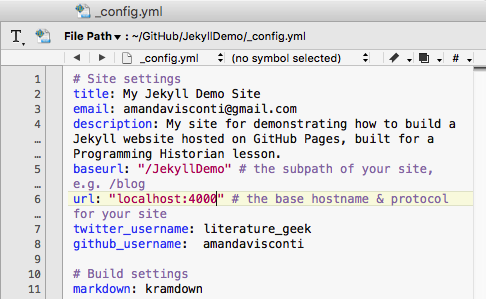
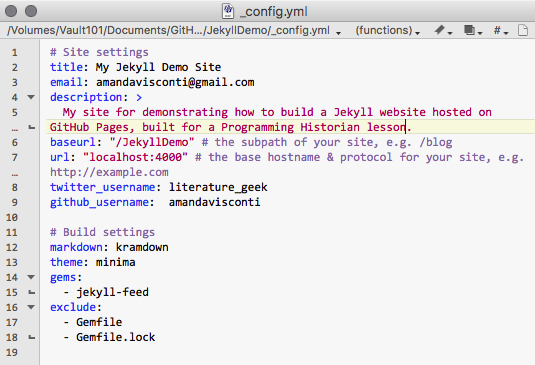
Rewrote Jekyll lesson to fix #278
Fixes lesson breakage reported and ID’d by Kristen Mapes, from mid-Fall
2016 Jekyll changes that replaced themes with gem themes.

Changed region(s): [[0.0, 0.0, 1.0, 0.9933]]

diff --git a/lessons/building-static-sites-with-jekyll-github-pages.md b/lessons/building-static-sites-with-jekyll-github-pages.md
@@ -19,6 +19,8 @@ difficulty: 1
 
 **Difficulty level:** Intermediate (this lesson includes use of the command line and git, *but* walks you through anything needed to complete this lesson). Forthcoming lessons in the basics of git/GitHub and GitHub Pages will be linked here when available, and provide a good background for anyone wishing for deeper understanding of the technology used in this lesson.
 
+**Up to date?:** This lesson was last updated on *November 12, 2016* to fix issues caused by Jekyll version 3.2.
+
 ## Table of contents
 * [What are static sites, Jekyll, etc. and why might I care?](#section0)
 * [Preparing for installation](#section1)
@@ -165,7 +167,7 @@ You'll see something like the following text, followed by a popup:
 
 {% include figure.html filename="building-static-sites-with-jekyll-github-pages-1.png" caption="After entering the code at the command prompt, you'll see a message stating 'install requested for command line developer tools'" %}
 
-In the popup, click the "Install" button:
+In the popup, click the "Install" button (*not* the "Get Xcode" button, which will install code you don't need that may take hours to download):
 
 {% include figure.html filename="building-static-sites-with-jekyll-github-pages-2.png" caption="A popup appears with an install button" %}
 
@@ -261,63 +263,34 @@ Don't forget to wait until the command prompt appears again to type the followin
 
    The *cd* command (**c**hange **d**irectory) tells your computer to look at the place in the computer's folder system you specify by the path typed after it—in this case, the path to the GitHub folder created by installing the GitHub Desktop app.
 
-3. Your site's public URL will take the form http://amandavisconti.github.io/JekyllDemo/, with *amandavisconti* being the author's GitHub username and *JekyllDemo* the name of the site I entered at this step (*an option to purchase and use your own [custom URL](#section7-2) is possible, but not covered in this lesson*). **Lowercase and uppercase website names do *not* point to the same website automatically**, so unlike my *JekyllDemo* example you might wish to pick an all-lowercase name to make sure people who hear about the site tend to type its URL correctly.
+3. At the command line, type in the following and press enter:
+
+    `gem install jekyll bundler`
+    
+Don't forget to wait until the command prompt appears again to move to the next step.
+
+4. Your site's public URL will take the form http://amandavisconti.github.io/JekyllDemo/, with *amandavisconti* being the author's GitHub username and *JekyllDemo* the name of the site I entered at this step (*an option to purchase and use your own [custom URL](#section7-2) is possible, but not covered in this lesson*). **Lowercase and uppercase website names do *not* point to the same website automatically**, so unlike my *JekyllDemo* example you might wish to pick an all-lowercase name to make sure people who hear about the site tend to type its URL correctly.
 
    At the command line, type in the following (but replace *JekyllDemo* with whatever you want your site to be called):
 
    `jekyll new JekyllDemo`
 
-   This command told *jekyll* to create a *new* site by installing all the necessary files in a folder named *JekyllDemo*. **The folder you create at this step (e.g. *JekyllDemo*) will be referred to as the "website folder" for the rest of this tutorial.**
+   This command told *jekyll* to create a *new* site by installing all the necessary files in a folder named *JekyllDemo*. **The folder you create at this step (e.g. *JekyllDemo*) will be referred to as the "website folder" for the rest of this tutorial.** 
 
-4. At the command line, type in the following to navigate into your site folder (through the rest of this lesson, always replace *JekyllDemo* with whatever name you chose for your site in the previous step):
+5. At the command line, type in the following to navigate into your site folder (through the rest of this lesson, always replace *JekyllDemo* with whatever name you chose for your site in the previous step):
 
    `cd JekyllDemo` 
-
-{% include figure.html filename="building-static-sites-with-jekyll-github-pages-8.png" caption="On the author's computer, the command line after navigating to the Jekyll website folder" %}
 
    If you look in the *GitHub > JekyllDemo* folder in Finder, you'll see that a bunch of new files—the files that will run your website!—have been installed (we'll describe what each does [further on in the lesson](#section4-2)):
 
 {% include figure.html filename="building-static-sites-with-jekyll-github-pages-9.png" caption="In Finder, we can see that bunch of new files—the files that will run your website!—have been installed" %}
-
-5. Bundler is a Ruby "Gem" (a package of Ruby code that adds some specific feature to your site) that will make testing your site easier; it needs to be installed directly into the website folder we just created (e.g. *JekyllDemo*), which is why we didn't install it earlier in this lesson. At the command line, enter:
-
-   `gem install bundler` 
-
-   Don't forget to wait until the command prompt appears again to type the following command:
-
-   `bundle init`
-
-   A new file named "Gemfile" will appear in your website folder. The [Gemfile](http://tosbourn.com/what-is-the-gemfile/) helps your site keep track of all the dependencies it requires to run without breaking (dependencies are pieces of code that software *depends* on or requires, if you don't want errors to occur).
-
-6. Navigate to your website folder in Finder (Macs) or your directory folder (Windows), and open the "Gemfile" file; you'll want to open this and any future website files using your [text editor](#section1-3) (e.g. TextWrangler). To force a file to open with your text editor, right-click on the file, then chose "Open with" and select the text editor program (you may need to choose "Other…" to find the text editor if it isn't in the list that appears).
-
-{% include figure.html filename="building-static-sites-with-jekyll-github-pages-12.png" caption="Entering the two lines of code in Step 7 on separate lines and with the same lower-case formatting" %}
-
-   You can also drag and drop a text file onto the icon for your text editor program (e.g. on the Dock/menubar).
-
-7. Add the two following lines of text, on separate lines and with the same lower-case formatting (as shown in the screenshot below), then **save**:
-
-   ```
-   gem 'jekyll'
-   gem 'github-pages'
-   ```
-
-{% include figure.html filename="building-static-sites-with-jekyll-github-pages-13.png" caption="" %}
-
-8. At the command line, type
-
-   `bundle install`
-
-   This will install the *jekyll* and *github-pages* gems you just listed in the Gemfile. (Don't forget to let the entire process finish and the prompt reappear before typing any more commands! This process will take a few minutes, as a number of dependencies are being installed.) 
-
-   You won't need to mess with the Gemfile again, since we'll be hosting your website on GitHub Pages and GitHub Pages does not allow additional site dependencies or plugins (code that adds specific features, like social media buttons after every post; [more on plugins below](#section7-2).)
 
 ## Running a website locally <a id="section3a"></a>
 *This section will describe how to run your website* ***locally****—meaning you'll be able to see what your website will look like in a web browser just on your computer (aka locally), but not anywhere else. Working on a "local" version of a website means that it's private to your computer; no one else can see your website yet (your website isn't "live" or "public": no one can type in the URL and see it in their browser).*
 
 *This means you can experiment all you want, and only publish your site for the world to see when it's ready. Or, once you've made your site live, you can continue to experiment locally with new writing, design, etc. and only add these to the public site once you're happy with how they look on the local site.*
 
-1. At the command line, type  
+1. At the command line, type:  
 
     `bundle exec jekyll serve --watch`
 
@@ -355,28 +328,30 @@ Don't forget to wait until the command prompt appears again to type the followin
 
 ### Basic site settings via _config.yml <a id="section4-1"></a>
 
-1. Navigate to your website folder in Finder (Macs) or the directory folder (Windows. The author's website at */Users/DrJekyll/GitHub/JekyllDemo* (*DrJekyll* is my logged in username, and *JekyllDemo* is the name of my website folder). [Return to the "Setting up Jekyll" section](#section3) if you need help locating your website folder.
+1. Navigate to your website folder in Finder (Macs) or the directory folder (Windows. The author's website at */Users/DrJekyll/GitHub/JekyllDemo* (*DrJekyll* is my logged in username, and *JekyllDemo* is the name of my website folder). [Return to the "Setting up Jekyll" section](#section3) if you need help locating your website folder. 
+
+You'll notice that generating and running your site in the previous section added a new "_site" folder. This is where Jekyll puts the HTML files it generates from the other files in your website folder. Jekyll works by taking various files like your site configuration settings (_config.yml) and files that just contain post or page content without other webpage information (e.g. about.md), putting these all together, and spitting out HTML pages that a web browser is able to read and display to site visitors.
 
 {% include figure.html filename="building-static-sites-with-jekyll-github-pages-18.png" caption="Locating the website folder on the author's computer" %}
 
-2. We'll start by customizing the main settings file, **_config.yml**. You'll want to open this and any future website files using your text editor (e.g. TextWrangler on Macs or Notepad++ on Windows).
+2. We'll start by customizing the main settings file, **_config.yml**. You'll want to open this and any future website files using your text editor (e.g. TextWrangler or bbEdit on Macs, or Notepad++ on Windows).
 
-{% include figure.html filename="building-static-sites-with-jekyll-github-pages-14.png" caption="Opening the text editor program TextWrangler on the author's Mac" %}
+{% include figure.html filename="building-static-sites-with-jekyll-github-pages-14.png" caption="Opening the text editor program bbEdit on the author's Mac" %}
 {% include figure.html filename="building-static-sites-with-jekyll-github-pages-15.png" caption="The new _config.yml file" %}
 
    The *_config.yml* file is a file "meant for settings that affect your whole blog, values for which your are expected to set up once and rarely need to edit after that" (as it says inside the file!). *_config.yml* is the place where you can set the title of your site, share information like your email address that you want associated with the site, or add other "basic settings"-type information you want available across your website. 
 
    The *.yml* file type refers to how the file is written using [YAML](https://en.wikipedia.org/wiki/YAML) (the acronym standing for "YAML Ain't Markup Language"); YAML is a way of writing data that is both easy for humans to write and read, and easy for machines to interpret. You won't need to learn much about YAML, besides keeping the *_config.yml* formatted the way it originally is even as you customize the text it contains (e.g. the title information is on a separate line from your email).
 
-3. You can change the text in this file, save the file, and then visit your local website in a browser to see the changes. **Note that changes to _config.yml**, unlike the rest of your website files, will not show up if made while the website is already running; you need to make them while the website isn't running, *or* after making changes to _config.yml stop then start running the website, to see changes made to this particular file. (*Changes to the _config.yml file were left out of the ability to refresh because this file can be used to declare things like the structure of site links, and altering these while the site is running could badly break things.*)
+3. You can change the text in this file, save the file, and then visit your local website in a browser to see the changes. **Note that changes to _config.yml**, unlike the rest of your website files, will not show up if made while the website is already running; you need to either make them while the website isn't running, *or*, after making changes to _config.yml, stop then start running the website to see changes made to this particular file. (*Changes to the _config.yml file were left out of the ability to refresh because this file can be used to declare things like the structure of site links, and altering these while the site is running could badly break things.*)
 
    Making small changes to website files (one at a time to start with), saving, and then refreshing to see the effect on your site means if you mess anything up, it will be clear what caused the issue and how to undo it.
 
    - Note that any line that starts with a **#** sign is a *comment*: comments aren't read as code, and instead serve as a way to leave notes about how to do something or why you made a change to the code. 
 
-   - Comments can always be deleted without effect to your website (e.g. you can delete the commented lines 1-6 in *_config.yml* if you don't want to always see this info about Jekyll use).
+   - Comments can always be deleted without effect to your website (e.g. you can delete the commented lines 1-9 and 12-15 in *_config.yml*, if you don't want to always see this info about Jekyll use).
 
-4. Change the *_config.yml* file according to these instructions:
+4. Edit the *_config.yml* file according to these instructions:
 
    - **title**: The title of your website, as you want it to appear in the header of the webpage.
    - **email**: Your email address.
@@ -388,7 +363,7 @@ Don't forget to wait until the command prompt appears again to type the followin
 
    The changes you made to the *baseurl* and *url* lines will let your site run from the same files both locally on your computer and live on the Web, but **doing this changed the URL where you'll see your local site from now on** (while [Jekyll is running](#section3-1)) from localhost:4000 to **localhost:4000/JekyllDemo/** (substitute your website folder name for *JekyllDemo* and remembering the last slash mark).
 
-   In the screenshot below, I have deleted the initial commented lines 1-6 as well as the commented text stating what "description" does (not necessary, just to show you can delete comments that you don't care about seeing!) and customized the rest of the file as instructed above:
+   In the screenshot below, I have deleted the initial commented lines 1-9 and 12-15, as well as the commented text stating what "description" does (not necessary, just to show you can delete comments that you don't care about seeing!) and customized the rest of the file as instructed above:
 
 {% include figure.html filename="building-static-sites-with-jekyll-github-pages-16.png" caption="The author's customized _config.yml file" %}
 
@@ -398,20 +373,24 @@ Don't forget to wait until the command prompt appears again to type the followin
 
 ### Where (and what) is everything? <a id="section4-2"></a>
 
-To get a sense of how your site works and what files you'd experiment with to do more advanced things, here are some notes on what each folder or file in your current website folder does. Remember to always open and edit any files with a text editor (e.g. TextWrangler) and not a word processor (e.g. not Microsoft Word or anything that lets you add formatting like italic and bold); this prevents invisible formatting characters from being saved in the file and messing up the website. If you just want to start adding content to your site and make it public, you can [skip to the next section](#section5).
+To get a sense of how your site works and what files you'd experiment with to do more advanced things, here are some notes on what each folder or file in your current website folder does. Remember to always open and edit any files with a text editor (e.g. bbEdit) and not a word processor (e.g. not Microsoft Word or anything that lets you add formatting like italic and bold); this prevents invisible formatting characters from being saved in the file and messing up the website. If you just want to start adding content to your site and make it public, you can [skip to the next section](#section5).
 
 {% include figure.html filename="building-static-sites-with-jekyll-github-pages-18.png" caption="A Finder window showing the default files and folders in a Jekyll website folder" %}
 
 - **_config.yml** is discussed [above](#section4-1); it provides basic settings information about your site, such as the site's title and additional possibilities we won't cover here, like how to structure links to posts (e.g. should they follow the pattern MySite.com/year/month/day/post-title?).
-- **_includes** folder has files that get included on all or certain pages (e.g. code to make the header contain your site title and main menu on every page of the site)
-- **_layouts** folder contains code that controls how the pages on your site look (default.html), as well as customizations of that code to further style blog posts (post.html) and pages (page.html)
 - **_posts** folder holds the individual files that each represent a blog post on your website. Adding a new post to this folder will make a new blog post appear on your website, in reverse chronological order (newest post to oldest). We'll cover adding blog posts in the [next section](#section5-2).
-- **_sass** folder holds SCSS files that control the visual design of the site
 - **_site** folder is where the HTML pages that appear on the web are generated and stored (e.g. you'll write and save posts as Markdown files, but Jekyll will convert these to HTML for display in a web browser)
+- **index.md** is a place to add content that you want to appear on your homepage, such as a biography blurb to appear above the "Posts" list
 - **about.md** is an example of a Jekyll *page*. It's already linked in the header of your website, and you can customize its text by opening and writing in that file. We'll cover adding more site pages in the [next section](#section5-3).
-- **css** folder holds CSS converted from SCSS that controls the visual design of the site
-- **feed.xml** lets people follow the RSS feed of your blog posts
-- **index.html** controls the structuring of content on your site's homepage
+
+The latest version of Jekyll no longer includes the files below by default, but they are options you might research when you're ready to customize your site further than this lesson covers. Any Jekyll documentation written before mid-Fall 2016 will assume these files are part of your website, since the change in what is included in default Jekyll was made in Fall 2016. These possibilities include:
+
+- A **_drafts** folder that looks just like the _posts folder is a way to save draft posts on your website, without having these appear in your site's list of readable posts
+- An **_includes** folder contains files that get included on all or certain pages such as a header (e.g. code to make the header contain your site title and main menu on every page of the site) or footer
+- A **_layouts** folder contains code that controls how the pages on your site look (e.g. default.html for default pages, project.html for pages discussing your projects that should all look the same way), as well as customizations of that code to further style blog posts (post.html) and pages (page.html)
+- A **_data** folder is a newer option. It stores files written using YAML (the acronym standing for “YAML Ain’t Markup Language”, discussed further above) and is a nice way to store and grab certain types of information. For example, _data/authors.yml could contain information for every author on your group blog, and the _layouts/post.html file could be set up to pull the correct biographical information about a given author for each of their posts, rather than making them write this information out fully for each new post.
+- A **feed.xml** file can let people follow the RSS feed of your blog posts.
+
 
 ## Writing pages and posts <a id="section5"></a>
 
@@ -431,7 +410,7 @@ You might be interested in "markdown editor" software such as [Typora](http://ww
 
 ### Authoring pages <a id="section5-3"></a>
 
-1. To see an existing page on your website (created as a default part of a Jekyll website [when you created the rest of your website's files](#section3)), navigate to your website folder and open the **about.md** file either in a text editor (e.g. TextWrangler) or a Markdown editor (e.g. Typora) to see the file that creates the "About" page. Also click on the "About" link in the top-right of your webpage to see what the webpage the file creates looks like in a browser.
+1. To see an existing page on your website (created as a default part of a Jekyll website [when you created the rest of your website's files](#section3)), navigate to your website folder and open the **about.md** file either in a text editor (e.g. bbEdit) or a Markdown editor (e.g. Typora) to see the file that creates the "About" page. Also click on the "About" link in the top-right of your webpage to see what the webpage the file creates looks like in a browser.
 
 2. The stuff between the \--- dashes is called "front matter" (*note that opening the file in a Markdown editor might make the front matter appear on a gray background instead of between dashes*). The front matter tells your site whether to format the content below the front matter as a page or blog post, the title of the post, the date and time the post should show it was published, and any categories you'd like the post or page listed under.
 
@@ -439,7 +418,7 @@ You might be interested in "markdown editor" software such as [Typora](http://ww
 
    - **layout:** Keep this as-is (it should say page).
    - **title:** Change this to the desired page title (unlike posts, no quotation marks around the title). In the screenshot below, I added a page with the title "Resume".
-   - **permalink:** change the text between the two forward slash marks to the word (*or phrase—but you'll need to use hyphens and not spaces!*) that you want to follow your site's main URL to reach the page. For example, **permalink: /about/** locates a page at **localhost:4000/yourwebsitefoldername/about/**
+   - **permalink:** change the text between the two forward slash marks to the word (*or phrase—but you'll need to use hyphens and never spaces!*) that you want to follow your site's main URL to reach the page. For example, **permalink: /about/** locates a page at **localhost:4000/yourwebsitefoldername/about/**
 
 3. The space below the front matter's second — dashes (or below the front matter's gray box, if using a Markdown editor) is where you write the content of your page, using [the Markdown formatting described above](#section5-1).
 
@@ -451,7 +430,7 @@ For reference, you can check out [an example of a page](http://amandavisconti.gi
 
 ### Authoring posts <a id="section5-2"></a>
 
-1. In Finder, navigate to your website folder (e.g. *JekyllDemo*) and the *_posts* folder inside it. Open the file inside it with either a text editor (e.g. TextWrangler) or a Markdown editor (e.g. Typora). The file will be named something like *2016-02-28-welcome-to-jekyll.markdown* (the date will match when you created the Jekyll site).
+1. In Finder, navigate to your website folder (e.g. *JekyllDemo*) and the *_posts* folder inside it. Open the file inside it with either a text editor (e.g. bbEdit) or a Markdown editor (e.g. Typora). The file will be named something like *2016-02-28-welcome-to-jekyll.markdown* (the date will match when you created the Jekyll site).
 
 {% include figure.html filename="building-static-sites-with-jekyll-github-pages-19.png" caption="An example Jekyll website blog post file opened in a text editor" %}
 
@@ -466,7 +445,7 @@ For reference, you can check out [an example of a page](http://amandavisconti.gi
    - **layout:** Keep this as-is (it should say *post*).
    - **title:** Change "Welcome to Jekyll!" to whatever title you'd like for your new post (keeping the quotation marks around the title). It's the norm to make the title the same as the words in the filename (except with added spaces and capitalization). This is how the title will appear on the post's webpage).
    - **date:** Change this to when you want the post to show as its publication date and time, making sure to match the date that's part of the filename. (The date *and* time should have occurred already, for your post to show up.)
-   - **categories:** Delete the words "jekyll update" for now, and don't add anything else here—the current theme doesn't use these and they mess up the post URLs. (*Other themes can use this field to sort blog posts by categories*.)
+   - **categories:** Delete the words "jekyll update" for now, and don't add anything else here—the current theme doesn't use these and they mess up the post URLs. (*Other themes can use this field to sort blog posts by categories!*)
    - **The space below the second \--- (or below the gray box, if using a Markdown editor):** This is where you write your blog post, using [the Markdown formatting described above](#section5-1).
 
    After saving, you should now be able to see your second post on the front page of your site, and clicking on the link should take you to the post's page:
@@ -480,13 +459,14 @@ Notice that **the URL of the post** is your local website URL (e.g. *localhost:4
 
 **To create further posts**, duplicate an existing file, then remember to change not just the front matter and content inside the post as described above, but also the file name (date and title) of the new file.
 
-For reference, you can check out [an example of a post](http://amandavisconti.github.io/JekyllDemo/2016/02/29/a-post-about-my-research.html) on my demo site, or see [the code running that post](http://raw.githubusercontent.com/amandavisconti/JekyllDemo/gh-pages/_posts/2016-02-29-a-post-about-my-research.markdown).
+For reference, you can check out [an example of a post](https://amandavisconti.github.io/JekyllDemo/2016/11/12/a-post-about-my-research.html) on my demo site, or see [the code running that post](http://raw.githubusercontent.com/amandavisconti/JekyllDemo/gh-pages/_posts/2016-02-29-a-post-about-my-research.markdown).
 
 ## Hosting on GitHub Pages <a id="section6"></a>
 
 *You now know how to add text pages and posts to your website. In this section. we'll move your local site live so that others can visit it on the Web.* **At this point, we are making a version of your website publicly viewable** *(e.g. to search engines and to anyone who knows of or happens on the link).*
 
 *[Earlier in the lesson,](#section1-2) you installed the GitHub Desktop app. We'll now use this app to easily move your website files to a place that will serve them to visitors as webpages (GitHub Pages), where the public can then visit them online. This first time, we'll move all your website's files to the Web since none of them are there yet; in the future, you'll use this app whenever you've adjusted the website's files (added, edited, or deleted content or files) on your local version of the website and are ready for the same changes to appear on the public website (there's [a cheatsheet at the end of this section](#section6-1) for this).*
+
 1. Open the GitHub Desktop app. Click the **+** icon in the top left corner, and click on the "Add" option along the top of the box that appears (if "Add" isn't already selected).
 
 2. Click on the "Choose…" button and choose the folder (*JekyllDemo* in my example) containing your website files (if on a Mac and unable to locate this folder, your Library folder may be hidden; [use these directions](http://www.macobserver.com/tmo/article/mavericks-easily-make-user-library-folder-visible) to make it visible so the GitHub Desktop app can look navigate inside it).
@@ -498,21 +478,24 @@ For reference, you can check out [an example of a post](http://amandavisconti.gi
    You can use the larger text area below this to write a longer message, if needed (*it's optional*).
 
 {% include figure.html filename="building-static-sites-with-jekyll-github-pages-23.png" caption="Screenshot of the author's Jekyll website repository open in the GitHub app. On the left, we see our Jekyll website folder selected; in the middle, we see a list of files we've changed since the last time we changed the live website; and at the bottom we see fields for a short description of the changes you've made and for a longer description (if necessary)" %}
+
 5. At the top of the app window, click on the third icon from the left (it will say "Add a branch" if you hover over it). Type *gh-pages* in the "Name" field, then click the "Create branch" button.
 
 {% include figure.html filename="building-static-sites-with-jekyll-github-pages-24.png" caption="Type gh-pages in the 'Name' field, then click the 'Create branch' button" %}
+
 6. Click on the "Commit to gh-pages" button near the bottom-left of the app window.
 
 {% include figure.html filename="building-static-sites-with-jekyll-github-pages-25.png" caption="The 'Commit to gh-pages' button near the bottom-left of the app window" %}
+
 7. Click on the "Publish" button in the top-right.
 
 {% include figure.html filename="building-static-sites-with-jekyll-github-pages-26.png" caption="Click on the “Publish” button in the top-right" %}
 8. In the popup, leave everything as-is and click the "Publish repository" button in the lower-right (*your window may not show the options related to private repositories shown in the screenshot*).
 
 {% include figure.html filename="building-static-sites-with-jekyll-github-pages-27.png" caption="In the popup, leave everything as-is and click the 'Publish repository' button in the lower-right" %}
-9. Click the "Sync" button in the upper-right.
 
-{% include figure.html filename="building-static-sites-with-jekyll-github-pages-28.png" caption="Click the 'Sync' button in the upper-right" %}
+9. With all commits *after* the first one (which we just did!), you can skip the "create branch" and "publish" steps, and click the "sync" button (upper right) after you've clicked "Commit to gh-pages" and the app has completed committing. 
+
 10. You can now visit (and share the link to!) your live website. The URL will follow the pattern of *your GitHub username DOT github.io SLASH name of your website SLASH*. (For example, the author's URL is [amandavisconti.github.io/JekyllDemo/](amandavisconti.github.io/JekyllDemo/).)
 
 ### Mini cheatsheet <a id="section6-1"></a>
@@ -526,20 +509,20 @@ In the future when you want to move changes you've made locally to your live sit
 
 ## Getting fancy <a id="section7"></a>
 
-*This lesson won't cover advanced work like changing the visual appearance of your site or adding new functionality, but here is some information to get you started on your own.* 
+*This lesson won't cover advanced work like changing the visual appearance of your site or adding new functionality, but here is some information to get you started on your own. Also check out [the official Jekyll documentation pages](https://jekyllrb.com/docs/home/) as well as the lessons linked at the bottom of this lesson.* 
 
 ### Visual design <a id="section7-1"></a>
 
-The visual design of a website is often referred to as its *theme* (more properly, a theme is a set of code and image files that together make a major change to the appearance of a website). 
+The visual design of a website is often referred to as its *theme* (more properly, a theme is a set of code and image files that together make a major change to the appearance of a website). Jekyll's default theme (which you are seeing on your current website) is called "minima".
 
-You can customize the current theme of your website by making changes to the files in the *_sass* and *css* folders (unfortunately, the most recent version of Jekyll's move to use SASS instead of plain CSS makes learning to customize things a bit more difficult for non-designers).
+You have several options for changing the visual design of your site: you can customize the current "minima" theme, create your own theme, or add one of the many excellent free Jekyll themes, including:
 
-Or, you can add in (and further customize, if desired) a theme already created by someone else by searching for "Jekyll themes" or trying one of these resources:
-
-- [Alex Gil's "Ed" theme for minimal digital editions](https://elotroalex.github.io/ed/) and [its documentation](https://elotroalex.github.io/ed/documentation.html) (free)
+- [Alex Gil, Susanna Allés Torrent, Terry Catapano, and Johann Gillium's "Ed" theme for minimal digital editions](https://elotroalex.github.io/ed/) and [its documentation](https://elotroalex.github.io/ed/documentation.html) (free)
 - [Rebecca Sutton Koeser's "Digital Edition" theme](https://github.com/emory-libraries-ecds/digitaledition-jekylltheme) (free)
 - The [Jekyll Themes](http://jekyllthemes.org/) directory (free)
 - [JekyllThemes.io](http://jekyllthemes.io/) (free and paid)
+
+Note that how Jekyll handles themes changed in mid-Fall 2016; where the standard practice used to be adding a set of files to your website folder, Jekyll now encourages you to add themes as Ruby gems (just like how we added Jekyll to our computer as a Ruby gem, early in this lesson). You may be able to ignore this change and just add themes the old way described in documentation from before mid-Fall 2016.
 
 ### Functionality <a id="section7-2"></a>
 
@@ -573,11 +556,15 @@ Or, you can add in (and further customize, if desired) a theme already created b
 
 ### Help <a id="section9-1"></a>
 
-If you run into an issue, [Jekyll has a page on troubleshooting](https://jekyllrb.com/docs/troubleshooting/) that might help. If you're working on the command line and get an error message, don't forget to try searching for that specific error message online. Besides search engines, [the StackExchange site](http://stackexchange.com/) is a good place to find questions and answers from people who have run into the same problem as you in the past.
+If you run into an issue, [Jekyll has a page on troubleshooting](https://jekyllrb.com/docs/troubleshooting/) that might help. If you're working on the command line and get an error message, don't forget to try searching for that specific error message online. Besides search engines, [the StackExchange site](http://stackexchange.com/) is a good place to find questions and answers from people who have run into the same problem as you in the past. 
+
+Also note that some major changes were made in a version of Jekyll released in mid-Fall 2016, and that documentation written before that point might assume your site is set up slightly differently than it is. In most cases, this will just mean that you need to create a folder that your website folder doesn't currently contain, such as _layouts, to add a new file into. 
+
+We hope to host a lesson covering next steps to further customize your Jekyll site in the future. 
 
 ### Credits <a id="section9-2"></a>
 
-Thanks to *Programming Historian* Editor Fred Gibbs for editing, discussing, and reviewing this lesson; Paige Morgan and Jaime Howe for reviewing this lesson; Scott Weingart and students for testing the lesson with Windows; and Tod Robbins and Matthew Lincoln for suggestions on the [DH Slack](http://tinyurl.com/DHSlack) on what to cover in this lesson.
+Thanks to *Programming Historian* Editor Fred Gibbs for editing, discussing, and reviewing this lesson; Paige Morgan and Jaime Howe for reviewing this lesson; Scott Weingart and students for testing the lesson with Windows; and Tod Robbins and Matthew Lincoln for suggestions on the [DH Slack](http://tinyurl.com/DHSlack) on what to cover in this lesson. Also, thank you to Kristen Mapes for reporting a change in Jekyll that had broken this lesson, and pointing me to [a StackExchange question](https://stackoverflow.com/questions/38891463/jekyll-default-installation-doesnt-have-layouts-directory) identifying the problem.
 
 ### Further reading <a id="section9-3"></a>
 
